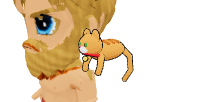
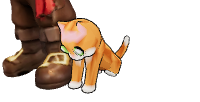
shop cards: pets framed at the captain's foot, chimp/gorilla cards, beard cards re-baked

diff --git a/js/gearThumbs.js b/js/gearThumbs.js
@@ -35,7 +35,9 @@ const FRAME = {   // measured from the skinned item bounds in the idle pose (big
   teeth:  { c: [0, 1.15, 0.15], d: [0.1, 0.02, 1], r: 0.15 },
   boots:  { c: [0, 0.16, 0.04], d: [0.3, 0.3, 1], r: 0.24 },
   cape:   { c: [0, 0.85, -0.05], d: [0.7, 0.15, -1], r: 0.6 },
-  'parrot:pet_monkey': { c: [0.32, 1.18, 0], d: [0.9, 0.2, 0.85], r: 0.34 }, 'parrot:pet_cat': { c: [0.32, 1.12, 0], d: [0.9, 0.25, 0.85], r: 0.32 }, 'parrot:pet_cat_black': { c: [0.32, 1.12, 0], d: [0.9, 0.25, 0.85], r: 0.32 },
+  // [Raul items redo 2] the ground pets stand by the captain's left foot (js/petRig.js anchors x 1.25 for the 1.75 m mannequin)
+  'parrot:pet_cat': { c: [0.47, 0.2, 0.05], d: [0.75, 0.22, 1], r: 0.27 }, 'parrot:pet_cat_black': { c: [0.47, 0.2, 0.05], d: [0.75, 0.22, 1], r: 0.27 }, 'parrot:pet_monkey': { c: [0.55, 0.25, 0.05], d: [0.75, 0.22, 1], r: 0.33 },
+  'parrot:pet_chimp': { c: [0.65, 0.3, 0.05], d: [0.75, 0.22, 1], r: 0.4 }, 'parrot:pet_gorilla': { c: [0.85, 0.5, 0.05], d: [0.75, 0.22, 1], r: 0.62 }, 'parrot:pet_gorilla_white': { c: [0.85, 0.5, 0.05], d: [0.75, 0.22, 1], r: 0.62 },
   'hat:crown_imperial': { c: [0, 1.82, 0.05], d: [0.3, 0.22, 1], r: 0.5 },
   'hat:mask_luchador': { c: [0, 1.4, 0.05], d: [0.3, 0.12, 1], r: 0.36 },   // [Raul wrestler] the full-head mask: brow skull to the open chin   // [v143] the tall Imperial Crown (cross ~2.2 m) with the face under it
 };
